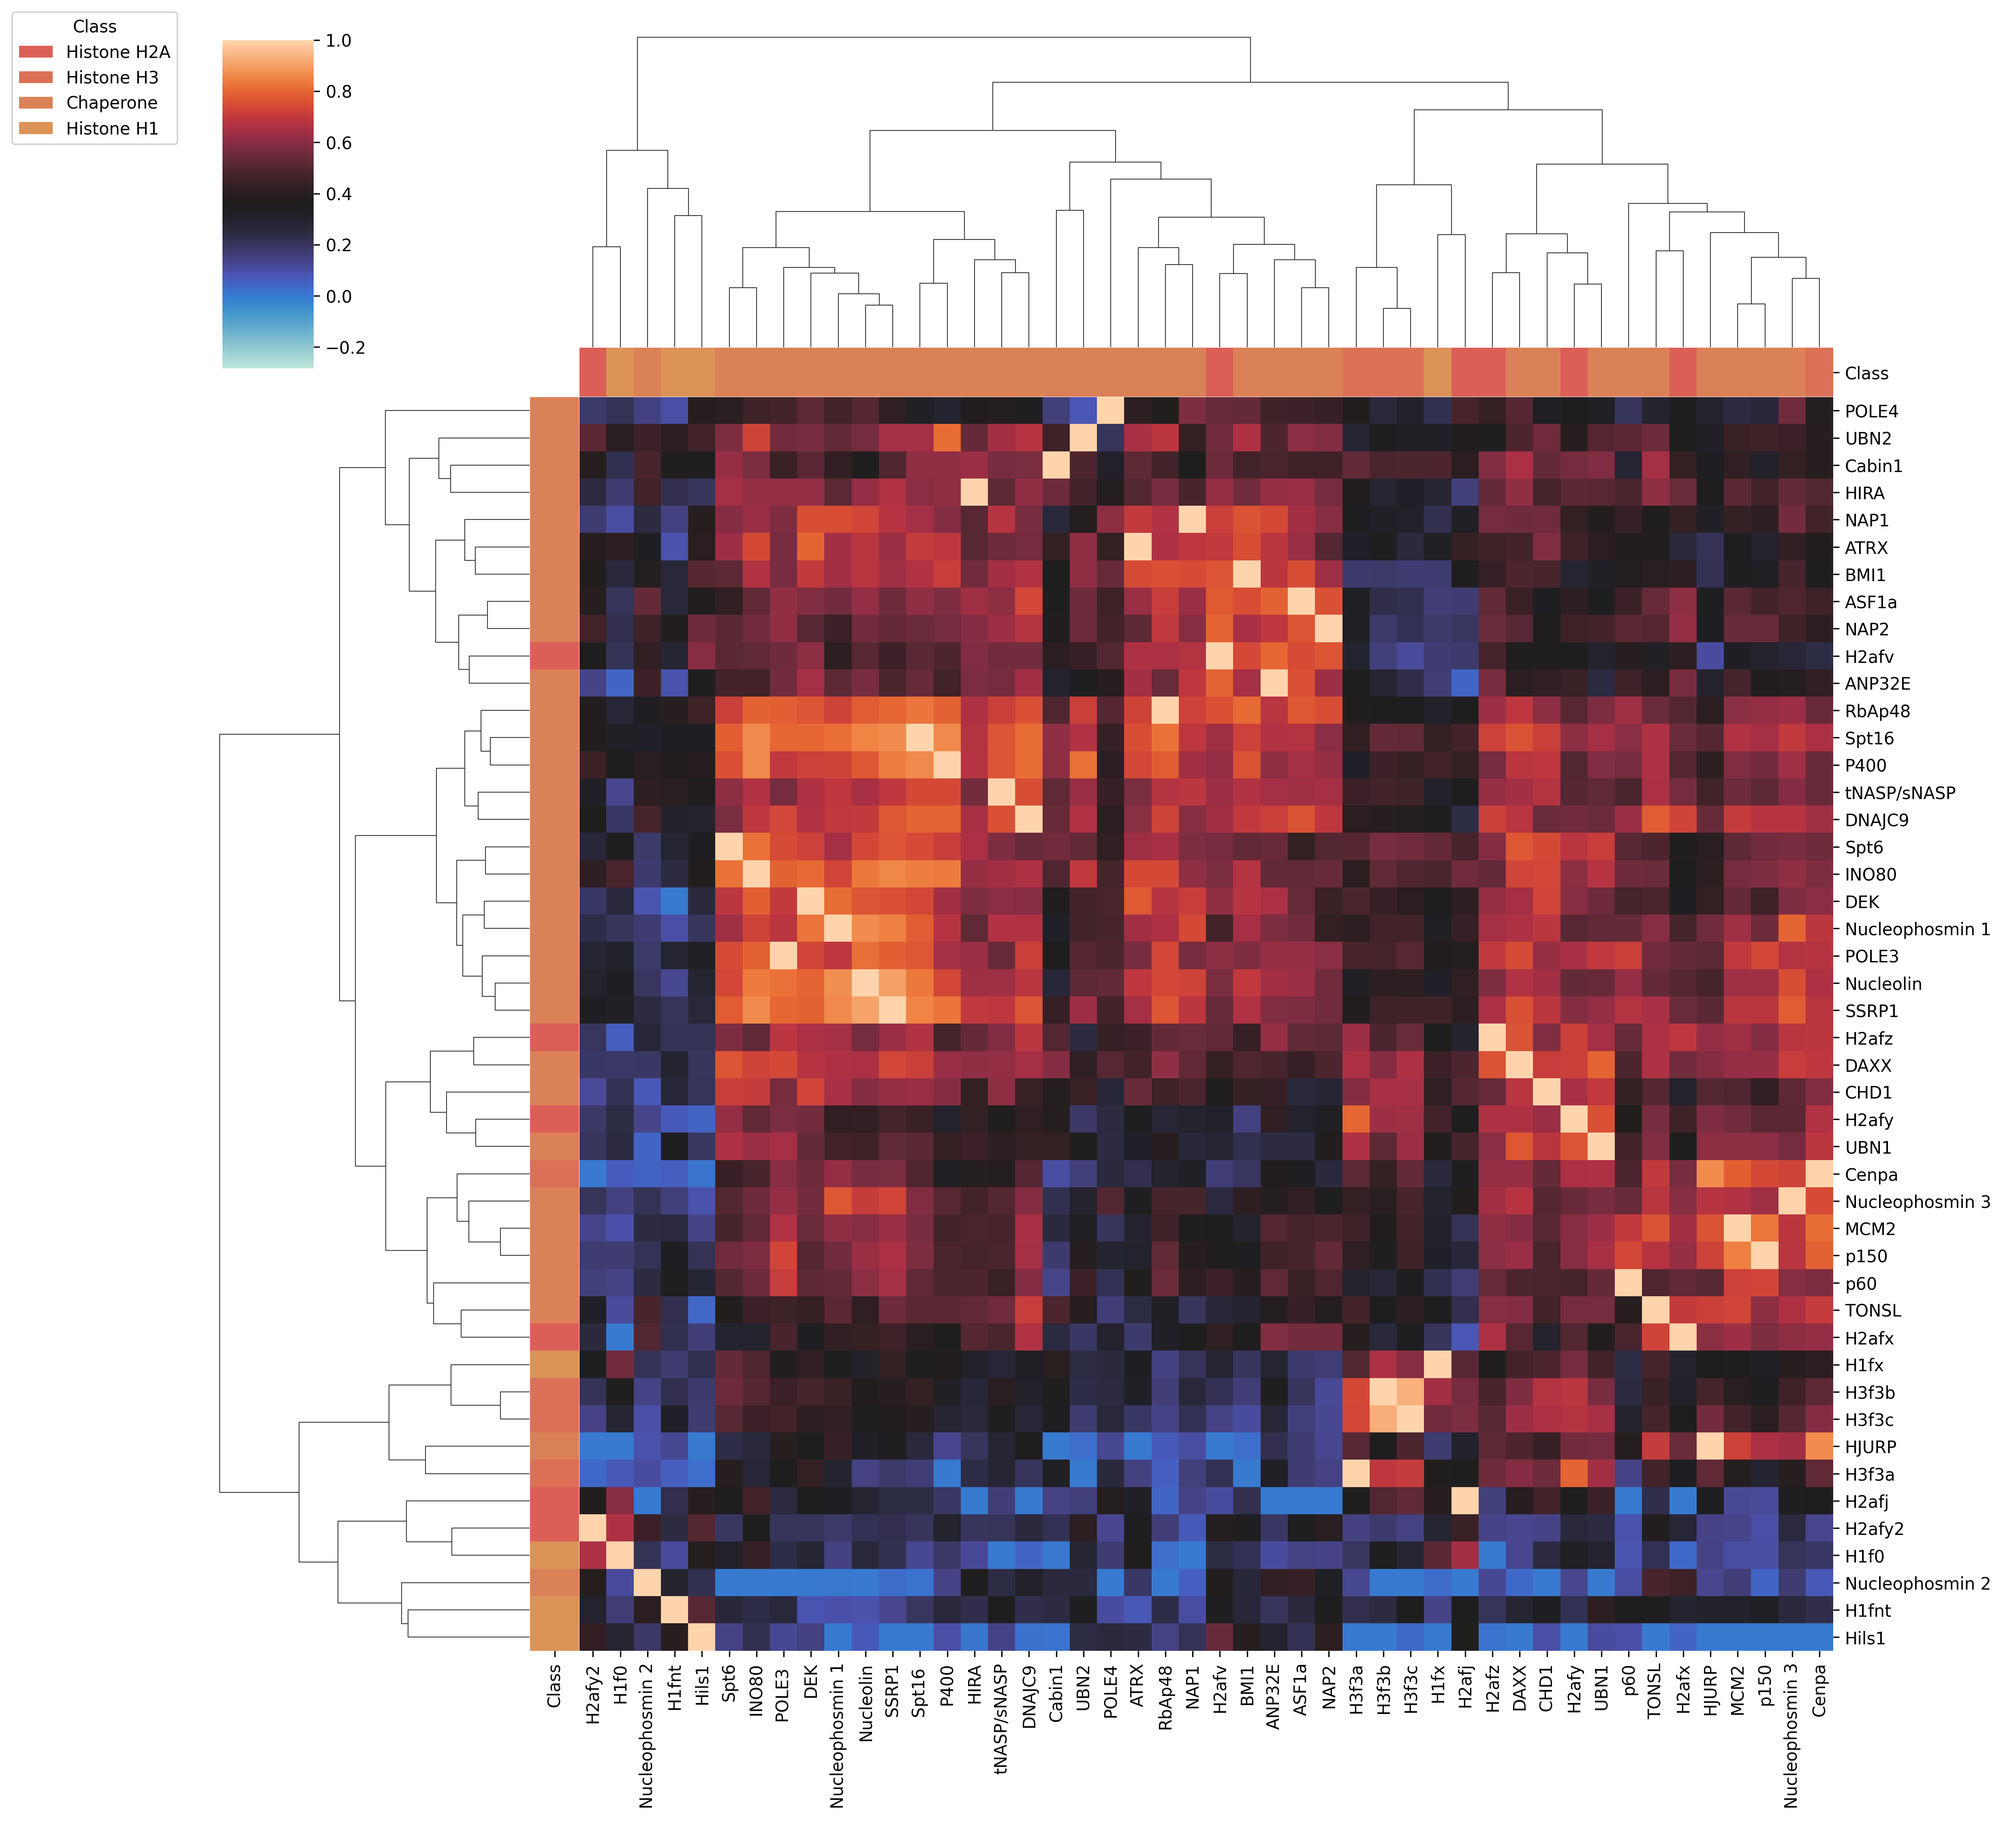
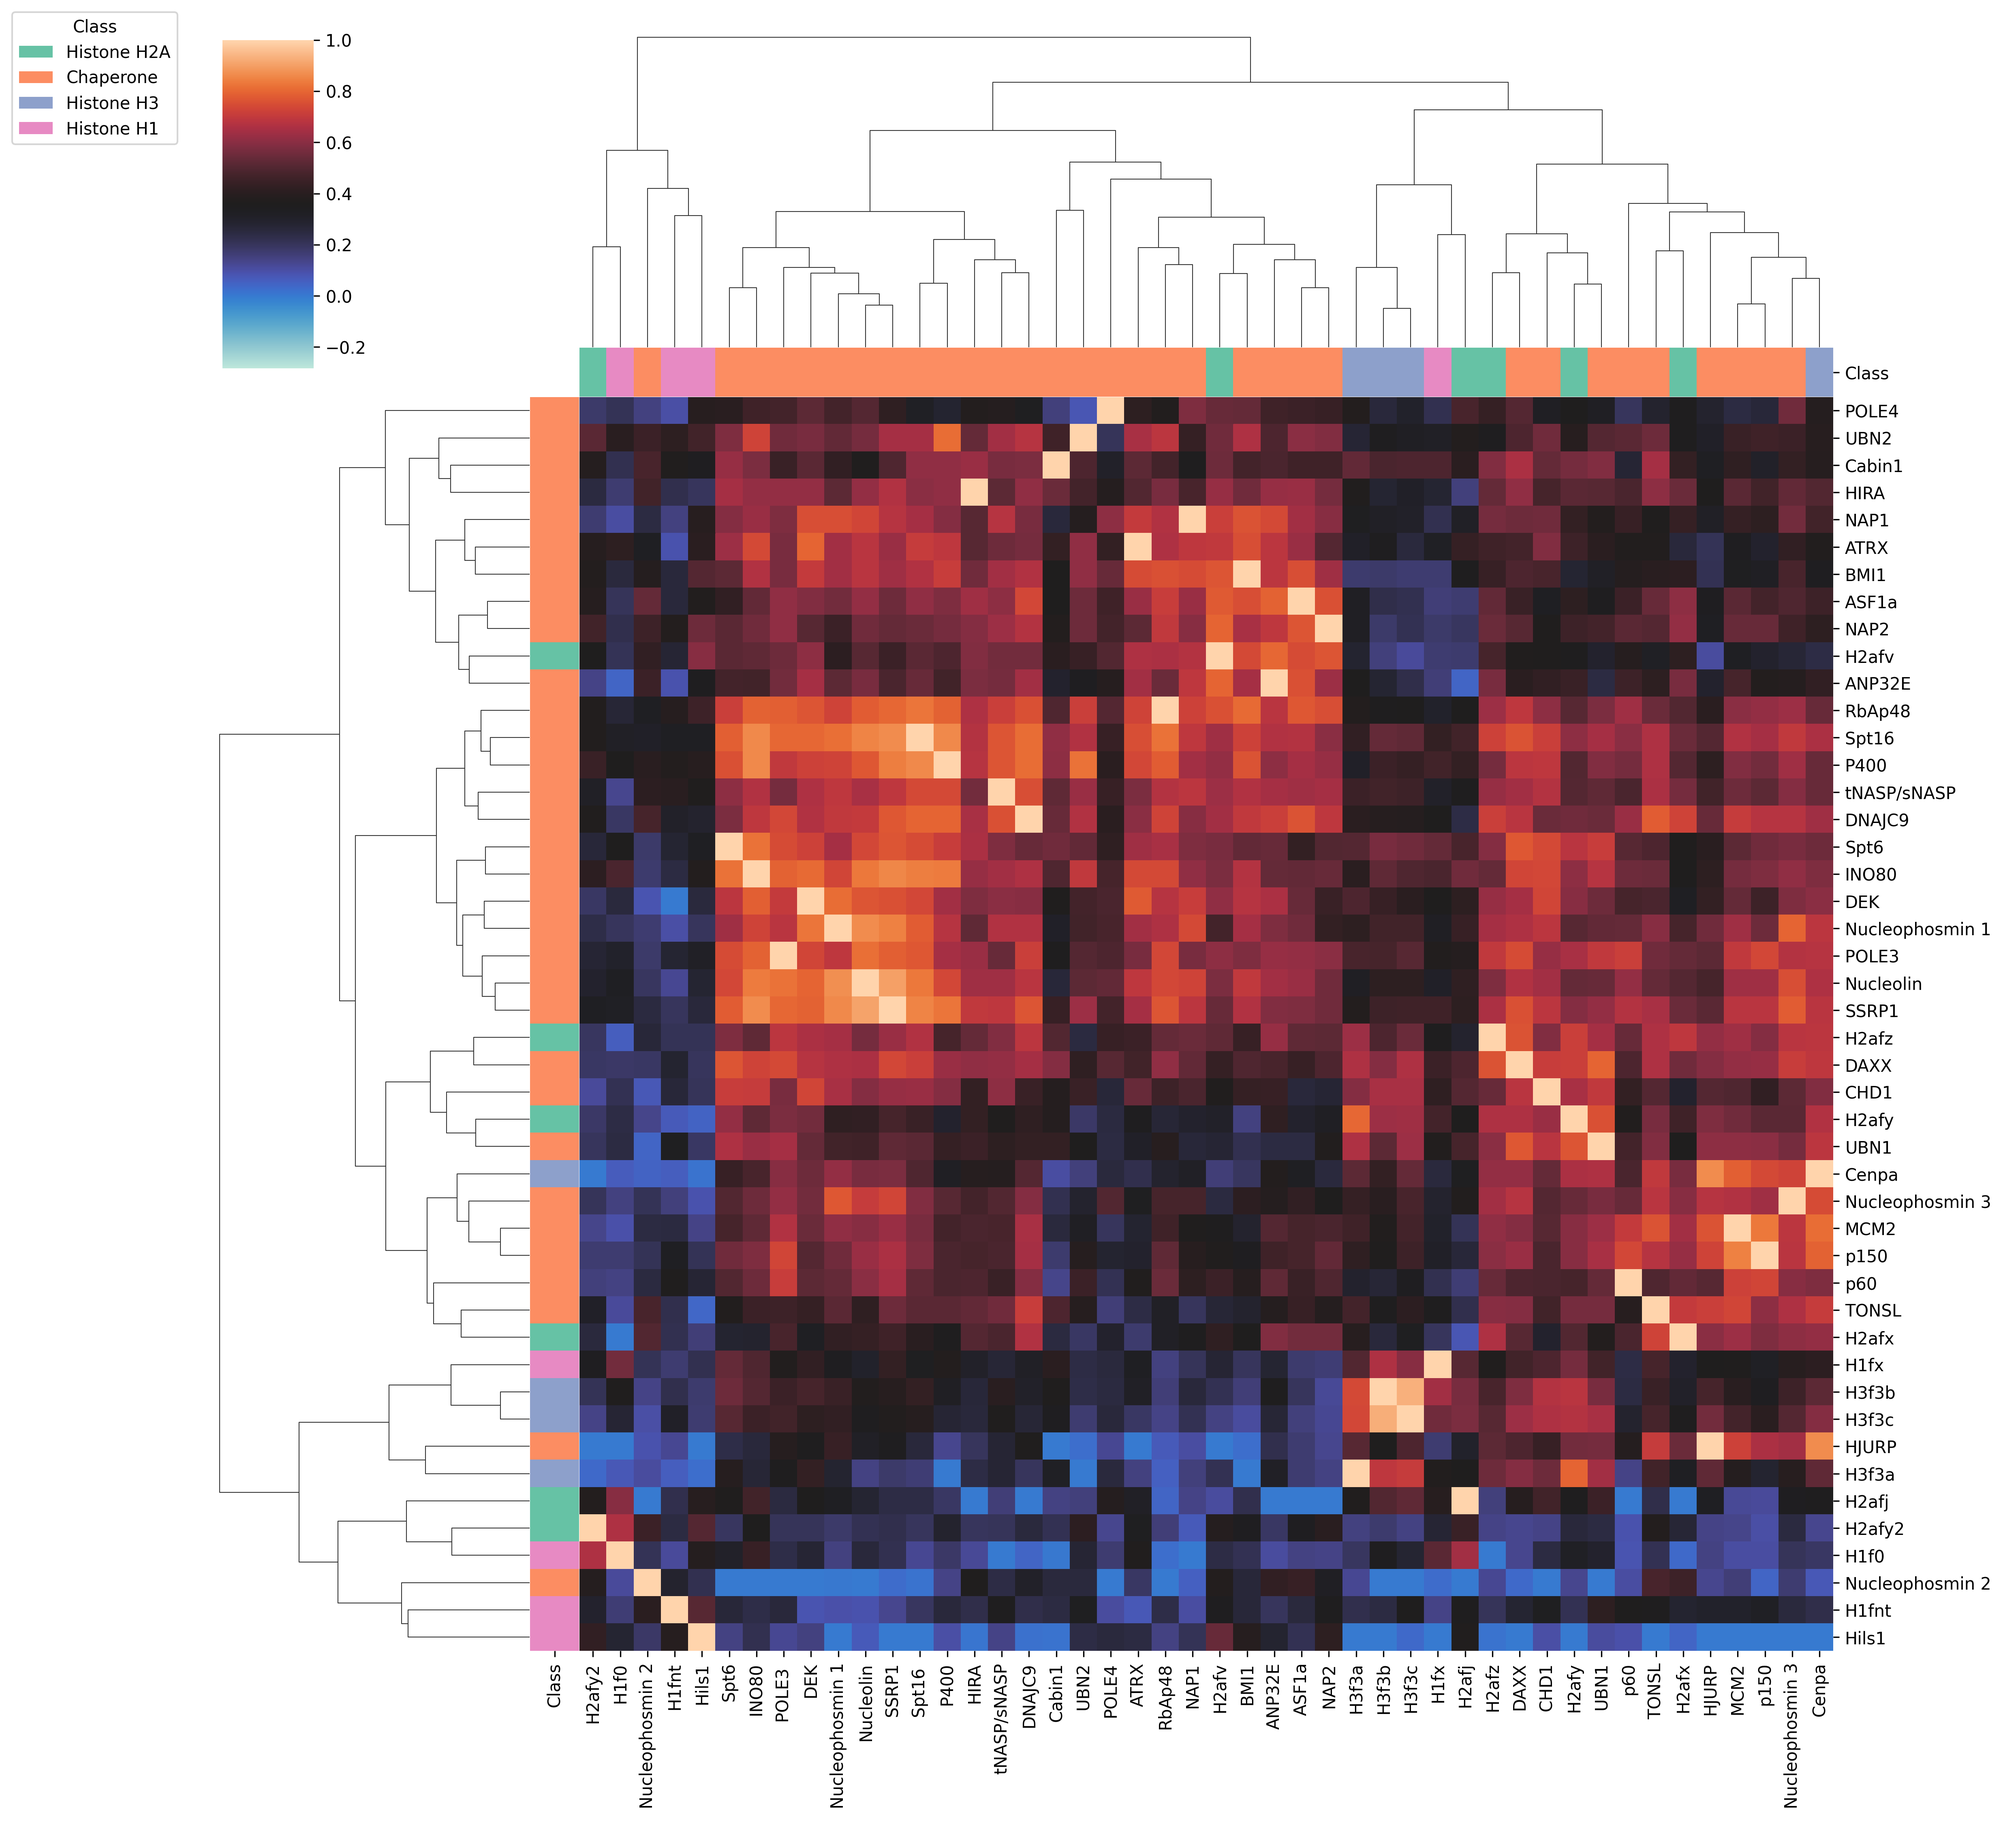
finished clustermaps except norm

Changed region(s): [[0.2492, 0.1869, 0.9347, 0.9034], [0.0, 0.0, 0.0935, 0.0935]]

diff --git a/6_Clustering.py b/6_Clustering.py
@@ -90,7 +90,7 @@ def clustering_genes(
             correlation_matrix = correlation_matrix.dropna()
             classes = correlation_matrix.pop("Class")
 
-            palette = sns.hls_palette(len(classes))
+            palette = sns.color_palette("Set2" ,len(classes))
             lut = dict(zip(set(classes.unique()), palette))
             colors = classes.map(lut)
             labels = correlation_matrix["GeneName"]
